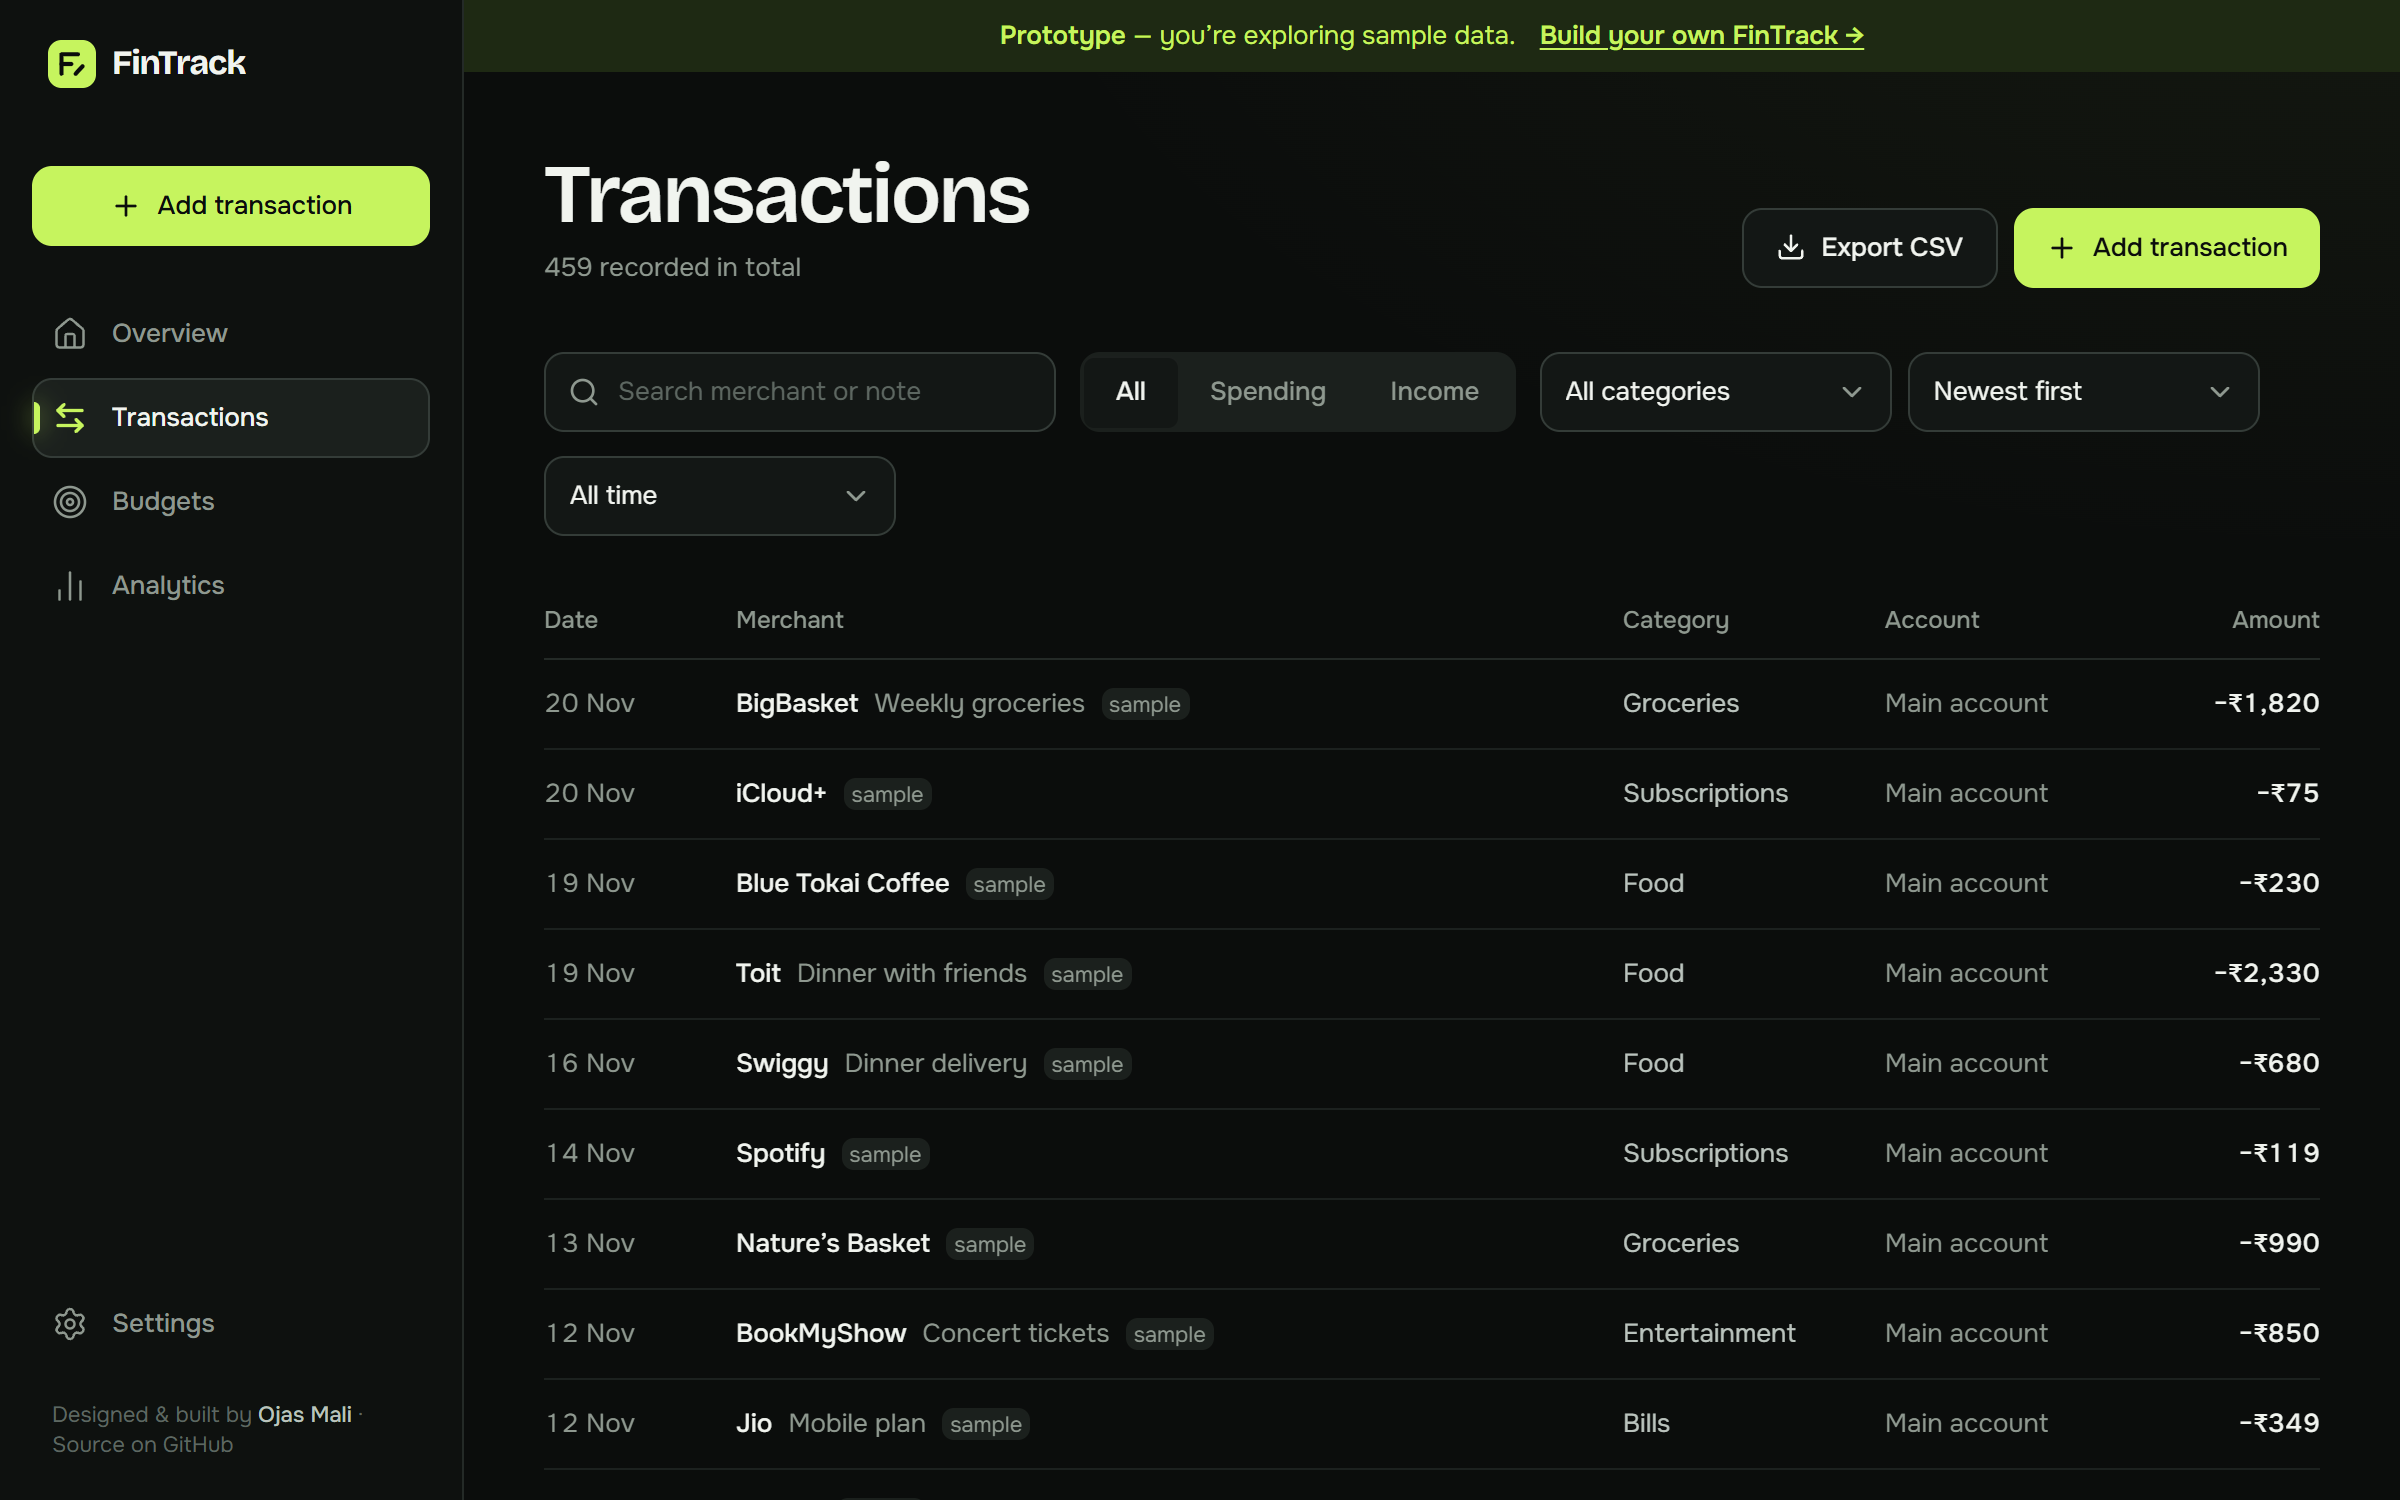
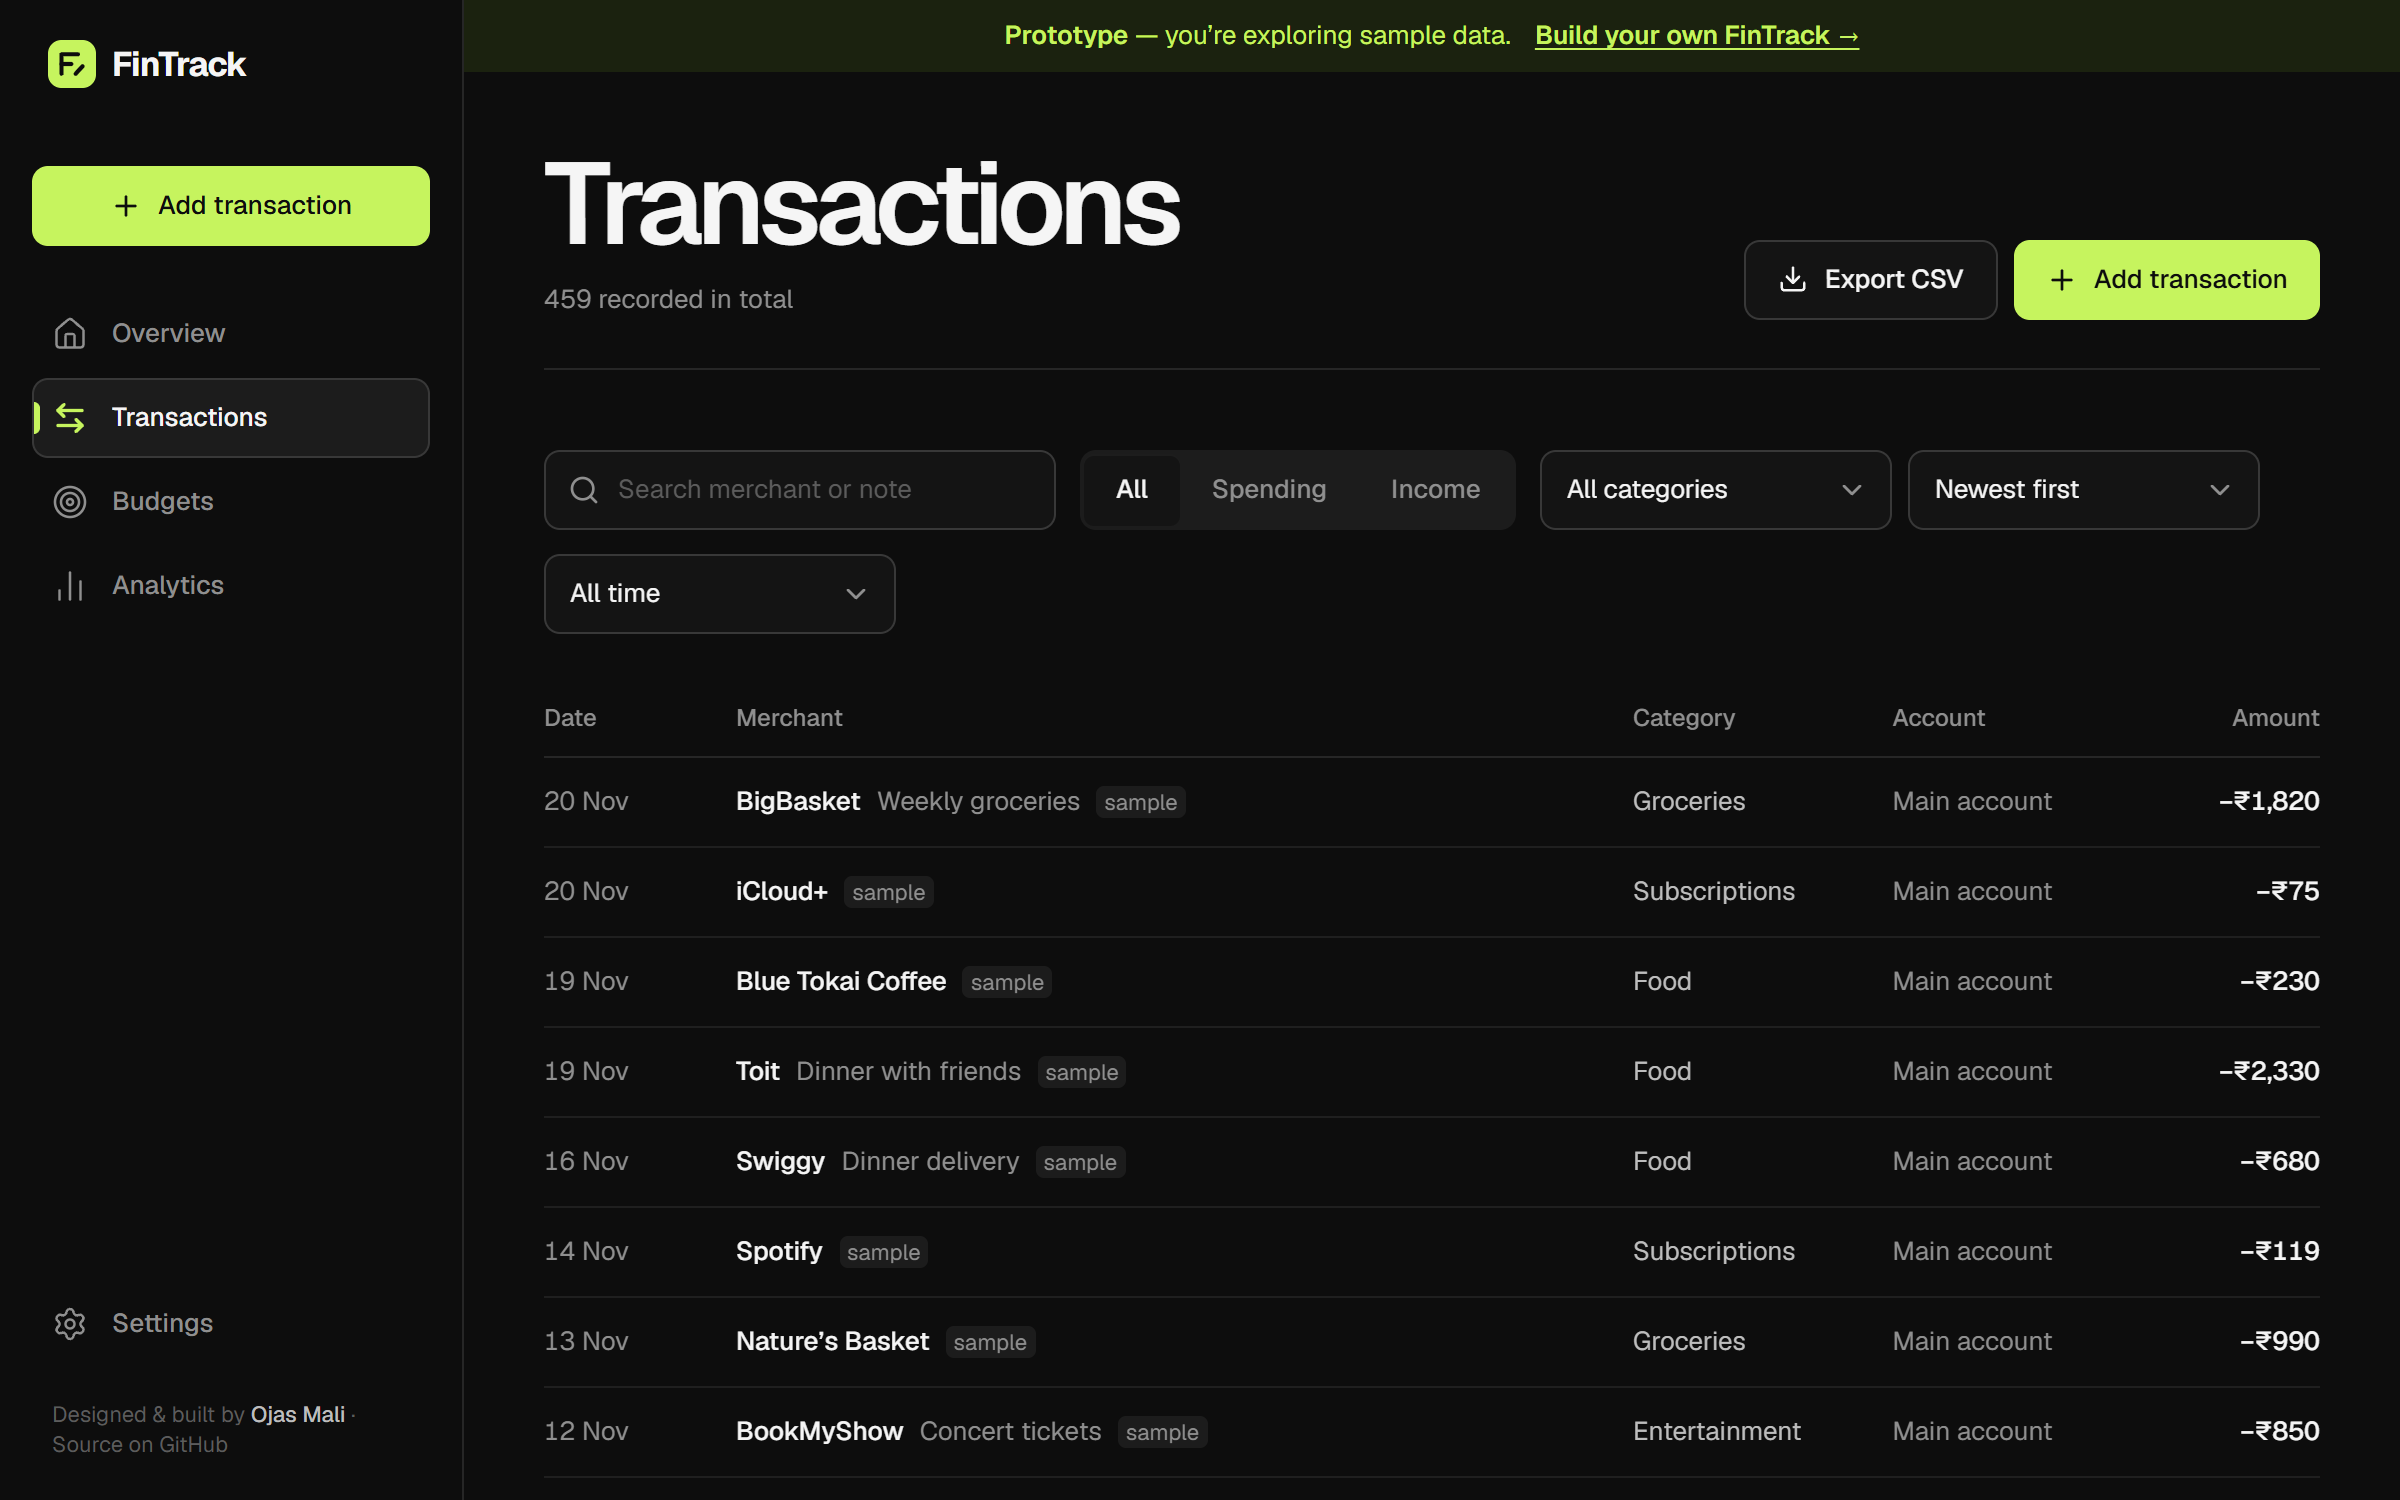
Refresh README screenshots, OG card and social preview for the Broadsheet look

diff --git a/index.html b/index.html
@@ -21,7 +21,7 @@
     <meta property="og:image" content="https://fintrack-ojasmali.vercel.app/og-image.png" />
     <meta property="og:image:width" content="1200" />
     <meta property="og:image:height" content="630" />
-    <meta property="og:image:alt" content="FinTrack overview screen next to the tagline “Where your money goes, and what’s changing.”" />
+    <meta property="og:image:alt" content="The tagline “Where your money goes, and what’s changing.” next to the FinTrack overview screen." />
     <meta name="twitter:card" content="summary_large_image" />
     <meta name="twitter:title" content="FinTrack — where your money goes, and what’s changing" />
     <meta name="twitter:description" content="Personal finance, made legible. Try the prototype instantly — no sign-up." />

diff --git a/README.md b/README.md
@@ -14,7 +14,7 @@ FinTrack is a personal finance web app that turns raw transactions into a calm m
 |---|---|
 | ![Analytics: income vs spending, savings rate, highlights](docs/screenshots/analytics-desktop.png) | ![Budgets: per-category limits with on-track, close and over states](docs/screenshots/budgets-desktop.png) |
 | **Transactions** | **Welcome** |
-| ![Transactions: search, filters, period picker, CSV export](docs/screenshots/transactions-desktop.png) | ![Welcome page: a live slice of the overview next to the headline, then two ways in](docs/screenshots/welcome-desktop.png) |
+| ![Transactions: search, filters, period picker, CSV export](docs/screenshots/transactions-desktop.png) | ![Welcome page: oversized headline above a money-flow figure of a sample month, income fanning out into where it went](docs/screenshots/welcome-desktop.png) |
 
 <p align="center">
   <img src="docs/screenshots/overview-mobile.png" alt="FinTrack overview on a phone" width="260" />
